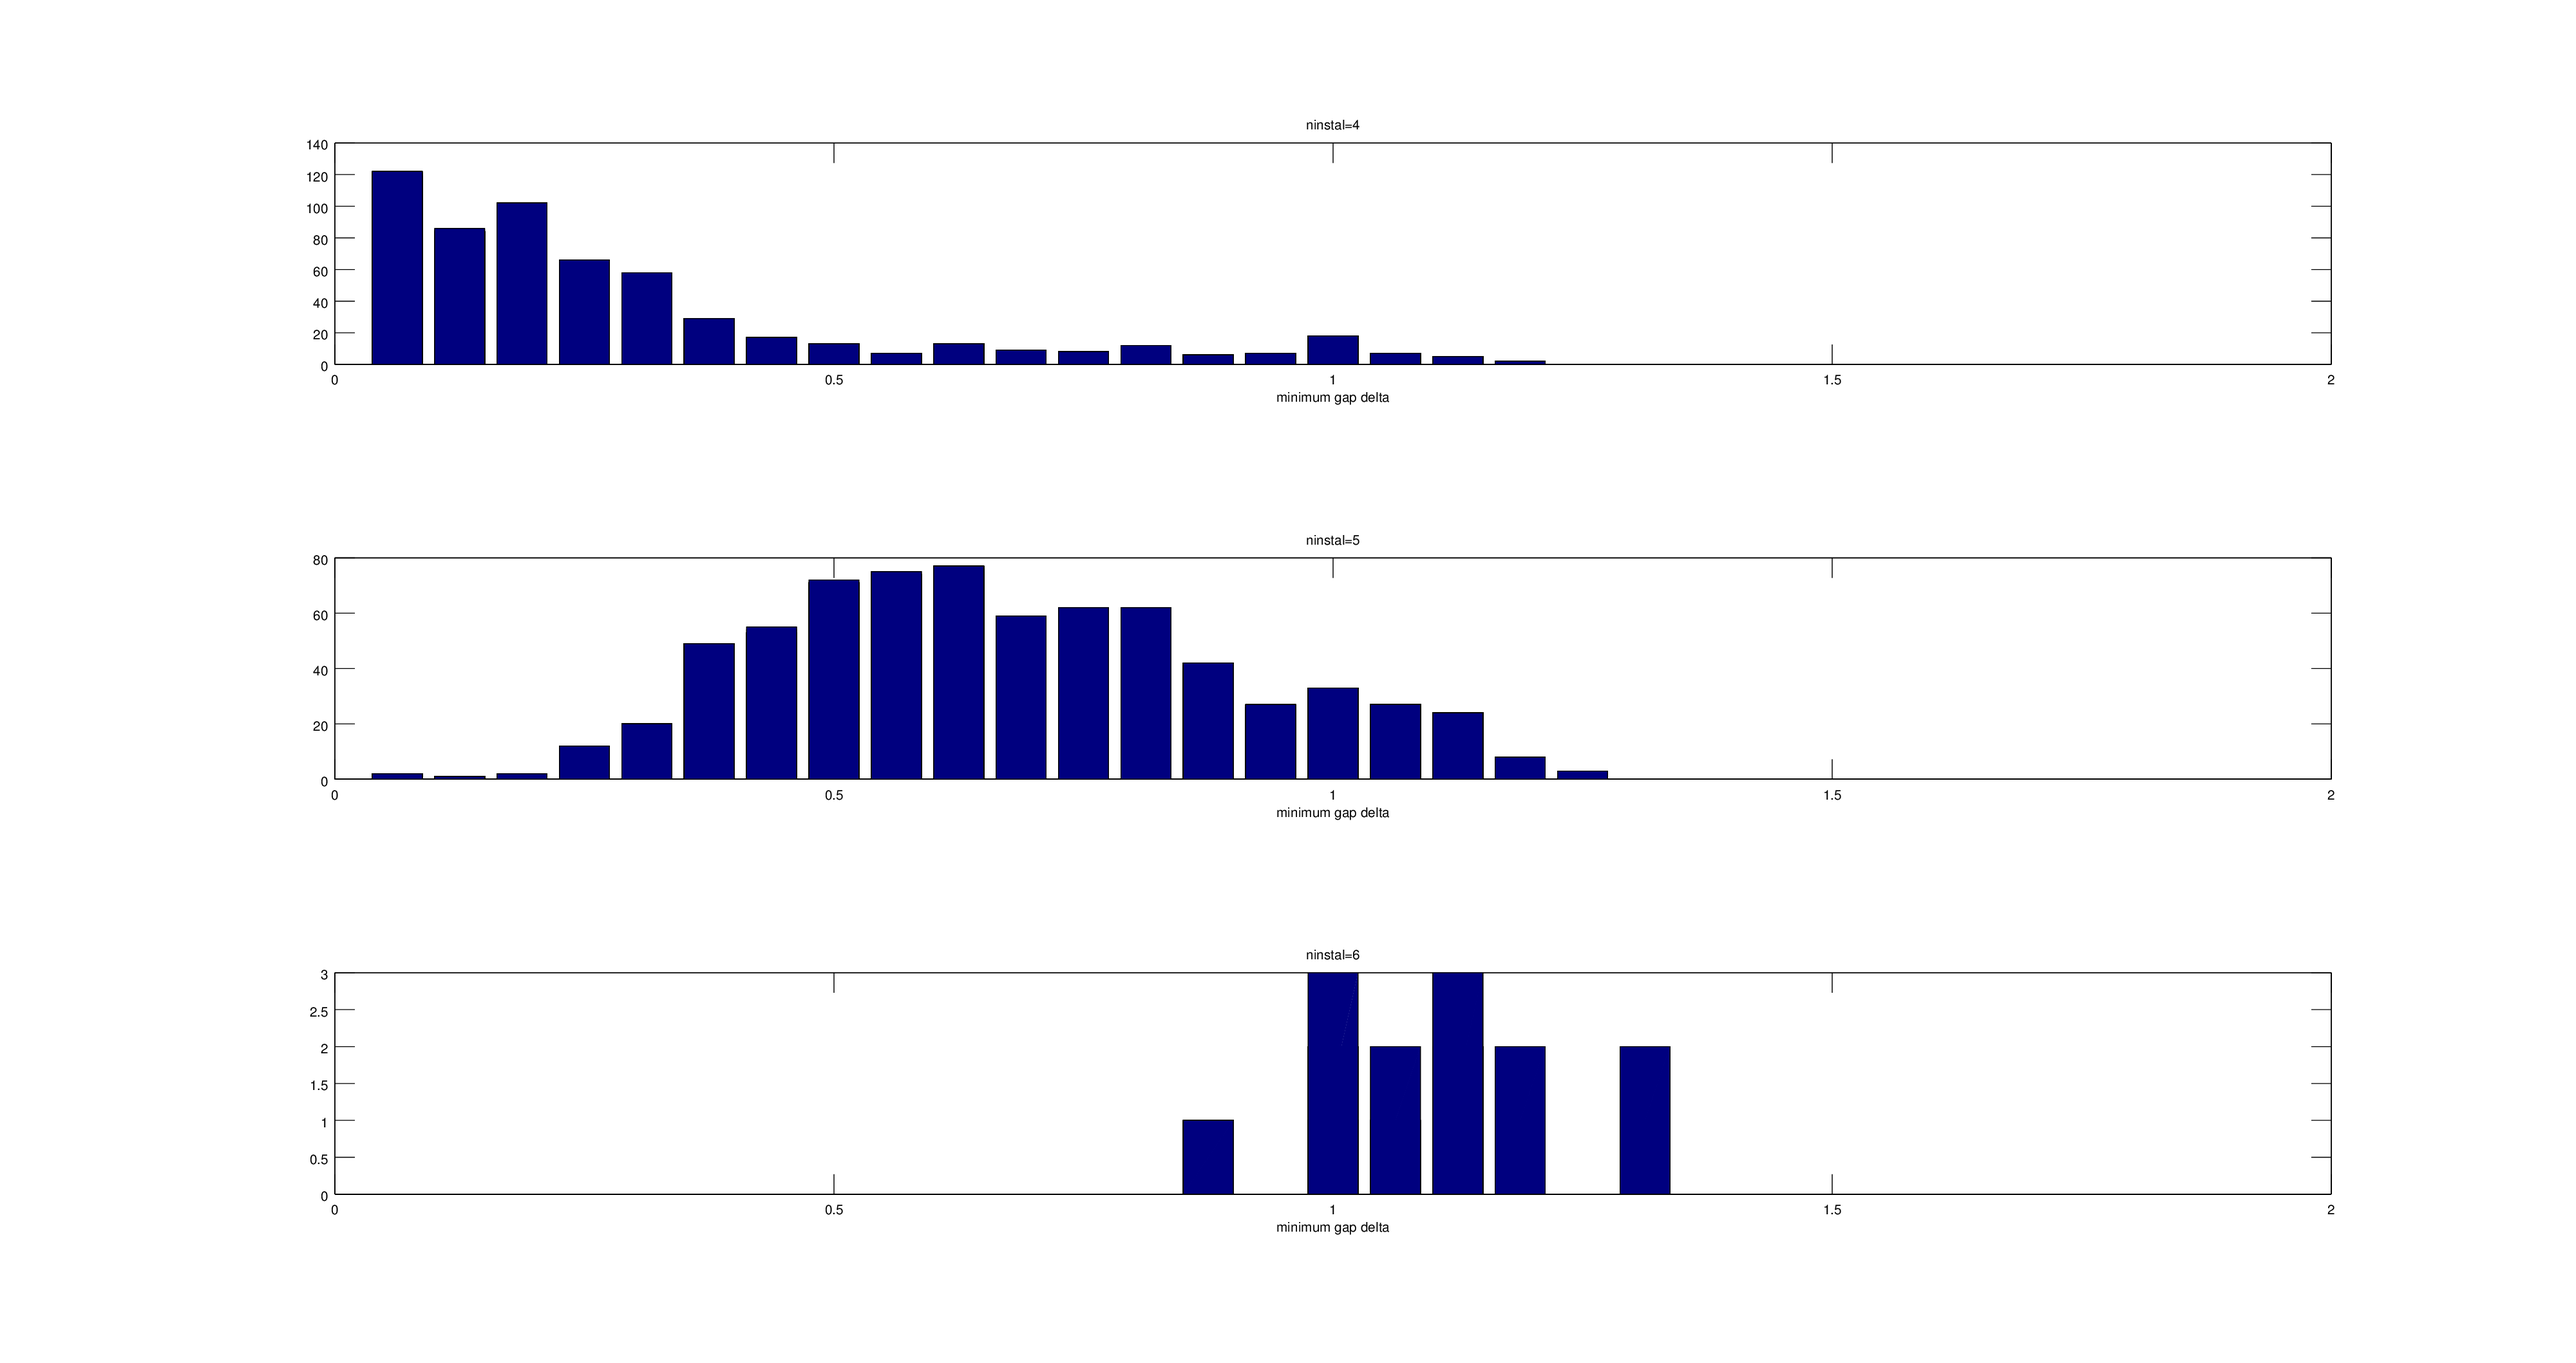
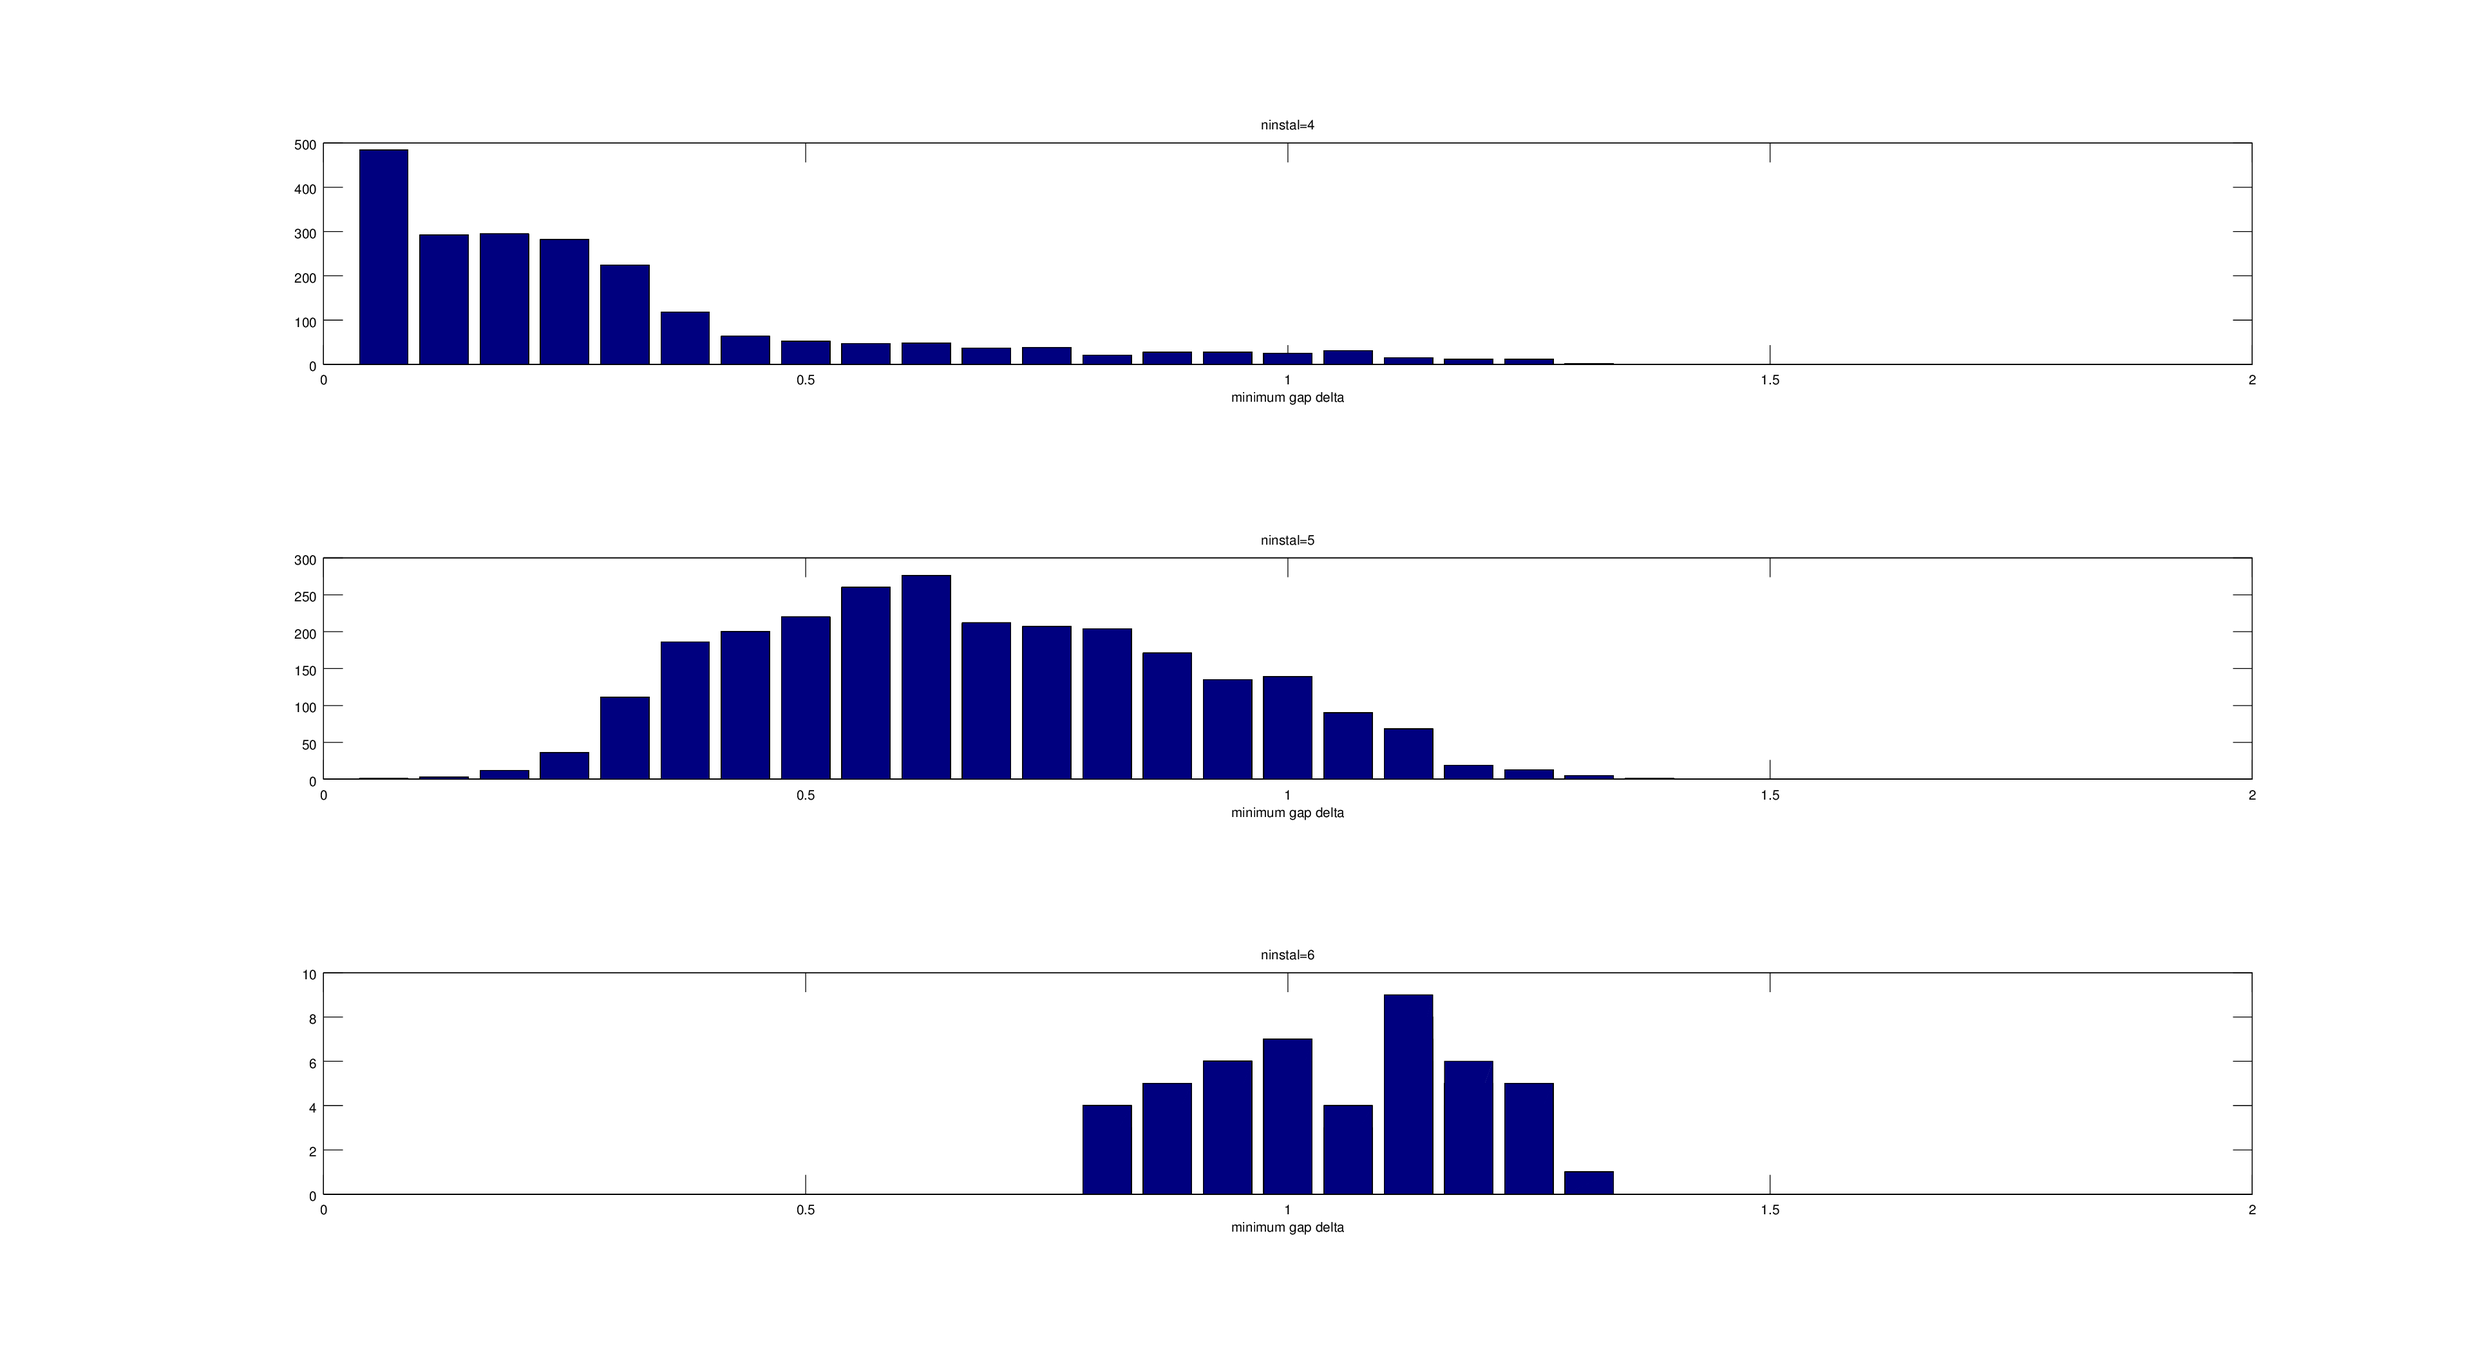
Final commit tonight

diff --git a/matlab/RandomIsing.m b/matlab/RandomIsing.m
@@ -18,7 +18,7 @@ function [H, J, num_solutions] = RandomIsing(N, J)
 
     if ~exist('J', 'var')
         J = 2 * rand(N) - 1;
-        %J = 2 * randi(2, N) - 3;
+        % J = 2 * randi(2, N) - 3;
         J = triu(J);
     end
 

diff --git a/matlab/figures.m b/matlab/figures.m
@@ -1,12 +1,12 @@
 % Parameters
 
-% Figure 5
-runs = 1000;
-N = 12;
-T = 10;
-ninstal = 10;
+% Figure 3
+runs = 500000;
+N = 8;
+T = 4;
+ninstal = 2;
 
-processors = 8;
+processors = 4;
 epsilon = eps(1);
 
 % Experiment
